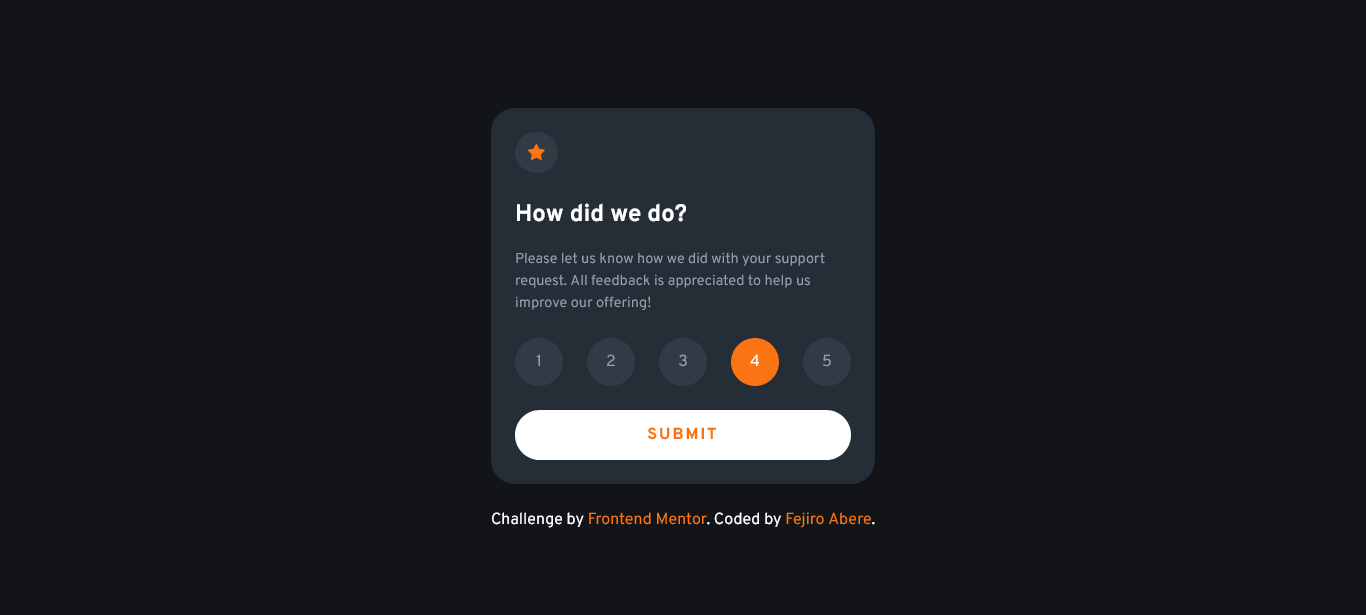
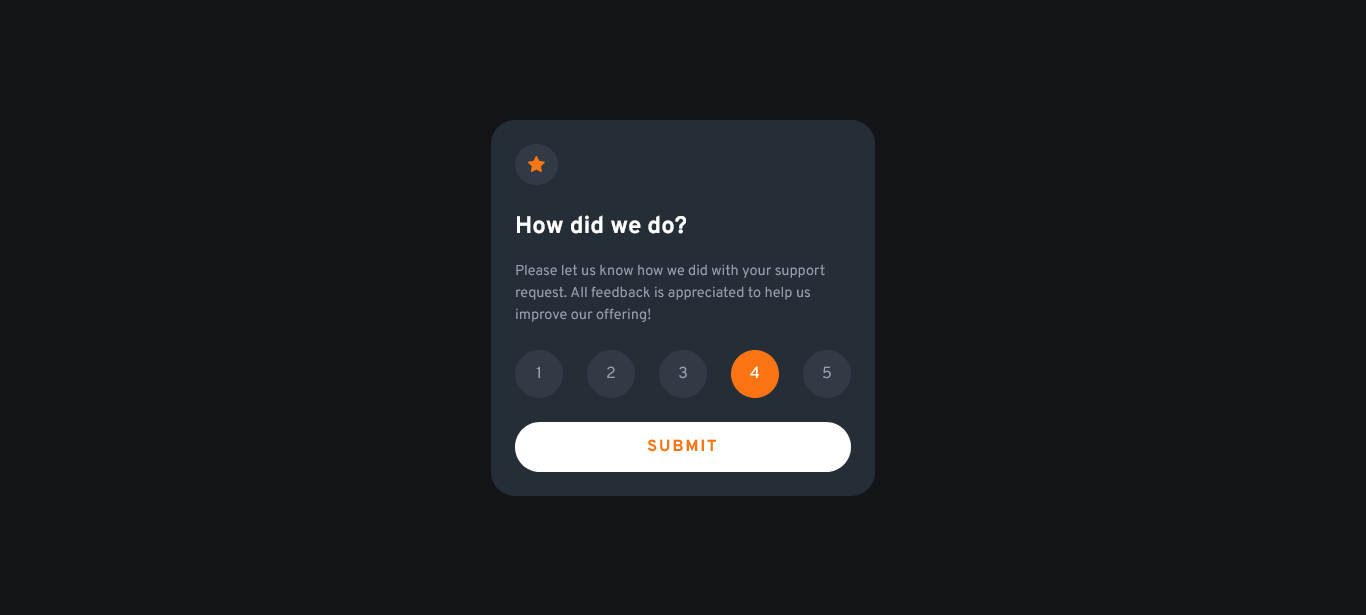
created a new small project solution for the frontend mentor challenege

diff --git a/css/style.css b/css/style.css
@@ -2,10 +2,8 @@
 *::before,
 *::after {
   box-sizing: border-box;
-}
-
-* {
   margin: 0;
+  padding: 0;
 }
 
 img,
@@ -37,6 +35,7 @@ h6 {
 body {
   line-height: 1.5;
   font-family: "Overpass", sans-serif;
+  height: 100vh;
   background-color: hsl(216, 12%, 8%);
 }
 
@@ -46,18 +45,18 @@ main {
   flex-direction: column;
   justify-content: center;
   align-items: center;
-  position: relative;
 }
 
 /* RATING */
 .rating {
   background-color: hsl(213, 19%, 18%);
-  width: 24rem;
+  max-width: 24rem;
   padding: 1.5rem;
-  margin: 1.5rem;
+  margin: 1rem;
   border-radius: 1.5rem;
   display: grid;
   gap: 1.5rem;
+  position: relative;
 }
 
 .star {
@@ -68,7 +67,7 @@ main {
   border-radius: 50%;
 }
 .star__icon {
-  max-width: 100%;
+  width: 100%;
 }
 
 .feedback {
@@ -86,12 +85,18 @@ main {
   font-size: 0.9rem;
   color: hsl(217, 12%, 63%);
 }
+@media (min-width: 800px) {
+  .feedback__body {
+    font-size: 0.9rem;
+  }
+}
 
 .rate {
   display: flex;
   flex-direction: row;
   justify-content: space-between;
   align-items: center;
+  gap: 0.5rem;
   padding: 0;
 }
 .rate li {
@@ -103,8 +108,9 @@ main {
 .rate button {
   border-radius: 50%;
   border: none;
-  width: 3rem;
-  height: 3rem;
+  width: 2.5rem;
+  height: 2.5rem;
+  font-size: 1rem;
   background-color: hsla(216, 12%, 54%, 0.15);
   color: hsl(217, 12%, 63%);
 }
@@ -117,6 +123,12 @@ main {
   background-color: hsl(25, 97%, 53%);
   color: hsl(0, 0%, 100%);
 }
+@media (min-width: 400px) {
+  .rate button {
+    width: 3rem;
+    height: 3rem;
+  }
+}
 
 .submit {
   background-color: hsl(25, 97%, 53%);
@@ -126,6 +138,7 @@ main {
   padding-block: 0.8rem;
   text-transform: uppercase;
   font-weight: 700;
+  font-size: 1rem;
   letter-spacing: 2px;
   cursor: pointer;
 }
@@ -136,9 +149,9 @@ main {
 
 .thank-you {
   background-color: hsl(213, 19%, 18%);
-  width: 24rem;
+  max-width: 24rem;
   padding: 1.5rem;
-  margin: 1.5rem;
+  margin: 1rem;
   border-radius: 1.5rem;
   display: grid;
   gap: 1.5rem;
@@ -152,13 +165,14 @@ main {
 }
 
 .answer {
-  background-color: hsla(216, 12%, 54%, 0.15);
-  margin-inline: 4rem;
-  padding-block: 0.5rem;
-  border-radius: 2rem;
   text-align: center;
 }
 .answer p {
+  border-radius: 2rem;
+  padding: 0.5rem;
+  background-color: hsla(216, 12%, 54%, 0.15);
+  width: -moz-fit-content;
+  width: fit-content;
   color: hsl(25, 97%, 53%);
 }
 
@@ -177,11 +191,8 @@ main {
   font-size: 0.9rem;
   color: hsl(217, 12%, 63%);
 }
-
-.attribution {
-  color: hsl(0, 0%, 100%);
-}
-.attribution a {
-  color: hsl(25, 97%, 53%);
-  text-decoration: none;
+@media (min-width: 800px) {
+  .confirmed__body {
+    font-size: 0.9rem;
+  }
 }

diff --git a/scss/style.scss b/scss/style.scss
@@ -9,7 +9,7 @@ $neutral-300: hsl(216, 12%, 54%, .15);
 $bg-400: hsl(213, 19%, 18%);
 $bg-500: hsl(216, 12%, 8%);
 
-$margin-pad: 1.5rem;
+$pad: 1.5rem;
 
 @mixin heading {
     font-weight: 700;
@@ -21,21 +21,26 @@ $margin-pad: 1.5rem;
     font-weight: 400;
     font-size: .9rem;
     color: $neutral-200;
+
+    @media (min-width: 800px) {
+        font-size: .9rem;
+    }
 }
 
 @mixin section {
     background-color: $bg-400;
-    width: 24rem;
-    padding: $margin-pad;
-    margin: $margin-pad;
-    border-radius: $margin-pad;
+    max-width: 24rem;
+    padding: $pad;
+    margin: 1rem;
+    border-radius: $pad;
     display: grid;
-    gap: $margin-pad;
+    gap: $pad;
 }
 
 body {
     line-height: 1.5;
     font-family: 'Overpass', sans-serif;
+    height: 100vh;
     background-color: $bg-500;
 }
 
@@ -45,12 +50,12 @@ main {
     flex-direction: column;
     justify-content: center;
     align-items: center;
-    position: relative;
 }
 
 /* RATING */
 .rating {
     @include section;
+    position: relative;
 }
 
 .star {
@@ -60,7 +65,7 @@ main {
     border-radius: 50%;
 
     &__icon {
-        max-width: 100%;
+        width: 100%;
     }
 }
 
@@ -81,8 +86,10 @@ main {
 .rate {
     display: flex;
     flex-direction: row;
+    // flex-wrap: wrap;
     justify-content: space-between;
     align-items: center;
+    gap: .5rem;
     padding: 0;
 
     li {
@@ -95,8 +102,9 @@ main {
     button {
         border-radius: 50%;
         border: none;
-        width: 3rem;
-        height: 3rem;
+        width: 2.5rem;
+        height: 2.5rem;
+        font-size: 1rem;
         background-color: $neutral-300;
         color: $neutral-200;
 
@@ -110,6 +118,11 @@ main {
             background-color: $primary;
             color: $neutral-100;
         }
+
+        @media (min-width: 400px) {
+            width: 3rem;
+            height: 3rem;
+        }
     }
 
 }
@@ -122,6 +135,7 @@ main {
     padding-block: .8rem;
     text-transform: uppercase;
     font-weight: 700;
+    font-size: 1rem;
     letter-spacing: 2px;
     cursor: pointer;
 
@@ -144,13 +158,13 @@ main {
 }
 
 .answer {
-    background-color: $neutral-300;
-    margin-inline: 4rem;
-    padding-block: .5rem;
-    border-radius: 2rem;
     text-align: center;
 
     p {
+        border-radius: 2rem;
+        padding: .5rem;
+        background-color: $neutral-300;
+        width: fit-content;
         color: $primary;
     }
 }
@@ -166,14 +180,5 @@ main {
 
     &__body {
         @include paragraph;
-    }
-}
-
-.attribution {
-    color: $neutral-100;
-    
-    a {
-        color: $primary;
-        text-decoration: none;
     }
 }

diff --git a/index.html b/index.html
@@ -4,7 +4,8 @@
 <head>
   <meta charset="UTF-8">
   <meta name="viewport" content="width=device-width, initial-scale=1.0">
-  <meta name="description" content="An interactive rating component that allows a user to provide feedback of the content used/viewed">
+  <meta name="description"
+    content="An interactive rating component that allows a user to provide feedback of the content used/viewed">
   <!-- displays site properly based on user's device -->
 
   <link rel="icon" type="image/png" sizes="32x32" href="./images/favicon-32x32.png">
@@ -51,7 +52,7 @@
       </div>
 
       <div role="dialog" class="answer">
-        <p>You selected <span id="userFeedback"></span> out of 5</p>
+        <p class="answer__text">You selected <span id="userFeedback"></span> out of 5</p>
       </div>
 
       <div role="text" class="confirmed">
@@ -62,12 +63,7 @@
     </section>
     <!-- Thank you state end -->
 
-    <div class="attribution">
-      Challenge by <a href="https://www.frontendmentor.io?ref=challenge" target="_blank">Frontend Mentor</a>.
-      Coded by <a href="https://www.frontendmentor.io/profile/Fejiro001" target="_blank">Fejiro Abere</a>.
-    </div>
   </main>
-
 
   <script src="js/script.js"></script>
 </body>

diff --git a/scss/_reset.scss b/scss/_reset.scss
@@ -2,10 +2,8 @@
 *::before,
 *::after {
     box-sizing: border-box;
-}
-
-* {
     margin: 0;
+    padding: 0;
 }
 
 img,

diff --git a/README.md b/README.md
@@ -30,7 +30,7 @@ Users should be able to:
 ### Screenshot
 
 - Feedback component
-![Feedback](./screenshots/thank-you-modal.png)
+![Feedback](./screenshots/feedback.png)
 
 - Feedback component when in active and focus states
 ![Active and Focus states](./screenshots/active-focus-states.png)
